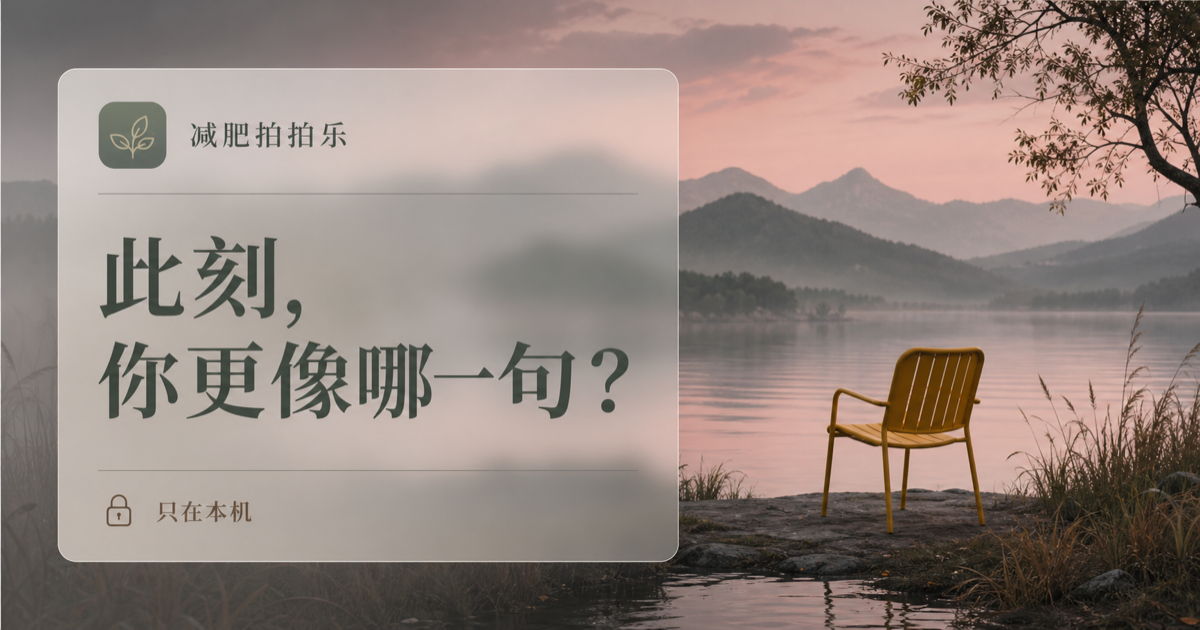
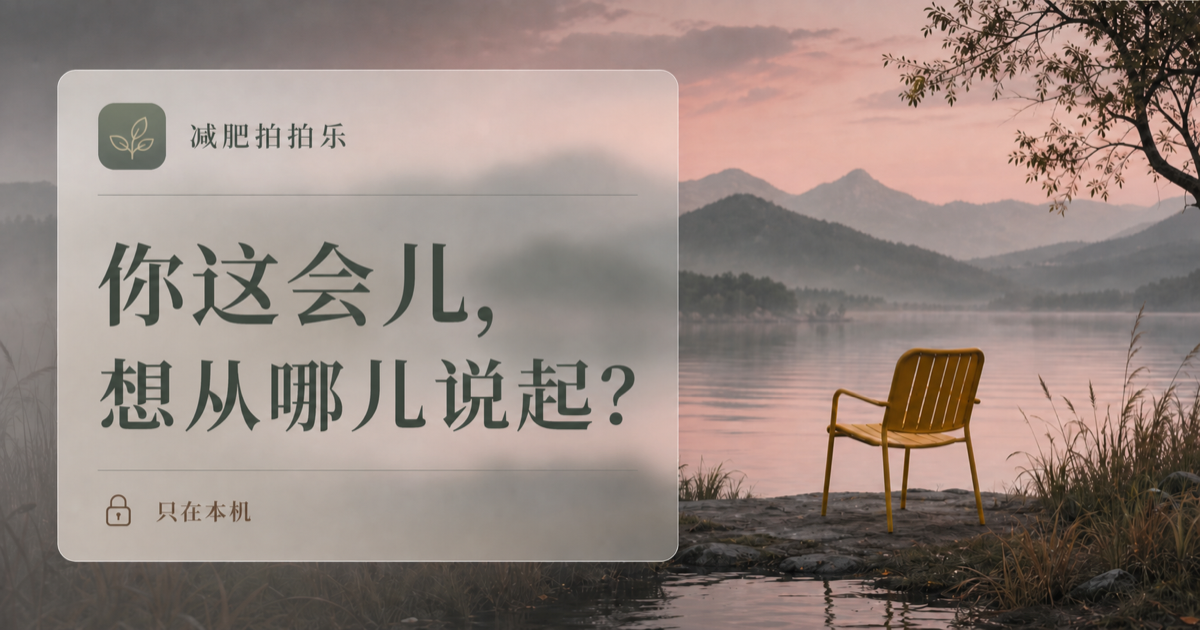
Refine homepage copy with living prose

diff --git a/app/page.tsx b/app/page.tsx
@@ -575,21 +575,17 @@ export default function Home() {
               </div>
               <span className="local-pill">
                 <ShieldCheck size={13} aria-hidden="true" />
-                {storageReady ? "只在本机" : "本机模式"}
+                {storageReady ? "只在本机" : "只用本机"}
               </span>
             </header>
 
             <div className="home-intro motion-hero">
-              <p className="soft-kicker">
-                <span className="soft-kicker-mark" aria-hidden="true" />
-                嗨，先不用交作业
-              </p>
               <h1>
-                <span>此刻，</span>
+                <span>你这会儿，</span>
                 <br />
-                <span>你更像哪一句？</span>
+                <span>想从哪儿说起？</span>
               </h1>
-              <p>不用想得太准，点一句最接近的就好。</p>
+              <p>挑一句顺口的就行。</p>
             </div>
 
             {storageError && (
@@ -638,7 +634,7 @@ export default function Home() {
                 </span>
                 <span>
                   <strong>拍一张，先放在这里</strong>
-                  <small>可以只保存在本机，不识别，也不发送</small>
+                  <small>只记录时，只留本机，不识别，也不上传</small>
                 </span>
                 <ChevronRight size={18} aria-hidden="true" />
               </button>
@@ -648,17 +644,12 @@ export default function Home() {
                   <History size={18} />
                 </span>
                 <span>
-                  <strong>看看最近发生了什么</strong>
-                  <small>像翻开几页，不做统计</small>
+                  <strong>翻翻最近</strong>
+                  <small>按时间放着，不算分</small>
                 </span>
                 <ChevronRight size={18} aria-hidden="true" />
               </button>
             </nav>
-
-            <footer className="local-note">
-              <span aria-hidden="true" />
-              记录只留在这台设备上
-            </footer>
           </div>
         )}
 

diff --git a/app/editorial.css b/app/editorial.css
@@ -135,14 +135,6 @@ body {
   line-height: 1.14;
 }
 
-.soft-kicker-mark {
-  background: #8b7566;
-  border-radius: 999px;
-  display: inline-block;
-  height: 1px;
-  width: 1rem;
-}
-
 .state-index,
 .hairline-list,
 .memory-ledger {

diff --git a/app/layout.tsx b/app/layout.tsx
@@ -23,7 +23,7 @@ export const metadata: Metadata = {
     type: "website",
     locale: "zh_CN",
     title: "减肥拍拍乐｜先接住你，再说别的",
-    description: "此刻，你更像哪一句？一个只在本机的非审判陪伴工具。",
+    description: "你这会儿，想从哪儿说起？一个只用本机的生活陪伴工具。",
     images: [
       {
         url: "/og.png",
@@ -36,7 +36,7 @@ export const metadata: Metadata = {
   twitter: {
     card: "summary_large_image",
     title: "减肥拍拍乐｜先接住你，再说别的",
-    description: "此刻，你更像哪一句？一个只在本机的非审判陪伴工具。",
+    description: "你这会儿，想从哪儿说起？一个只用本机的生活陪伴工具。",
     images: ["/og.png"],
   },
 };

diff --git a/docs/01-功能线路图.md b/docs/01-功能线路图.md
@@ -37,7 +37,7 @@
 
 ```mermaid
 flowchart TD
-    A["打开 App"] --> B["你现在需要什么？"]
+    A["打开 App"] --> B["你这会儿，想从哪儿说起？"]
     B --> C["想吃点东西"]
     B --> D["今天不想练"]
     B --> E["刚练完，很累"]
@@ -67,7 +67,7 @@ flowchart TD
 
 主问题：
 
-> 你现在需要什么？
+> 你这会儿，想从哪儿说起？
 
 四个主要入口：
 
@@ -80,7 +80,7 @@ flowchart TD
 
 - 拍一张
 - 写两句
-- 看看最近发生了什么
+- 翻翻最近
 
 “拍照打卡”和“记录打卡”是工具，不是首页的主角。
 
@@ -151,6 +151,8 @@ flowchart TD
 - 用户是否觉得这次回应有帮助（可空）
 
 记录页面使用时间线，不使用红绿评分、连续天数和完成率。
+
+运动量属于可选的生活记录，不是首页第五个入口，也不是成绩。后续可以在“刚练完”分支里顺手记下活动类型、时长、步数或距离；每一项都能跳过，不自动换算完成度或好坏。当前候选版本尚未实现这组字段。
 
 可以呈现：
 